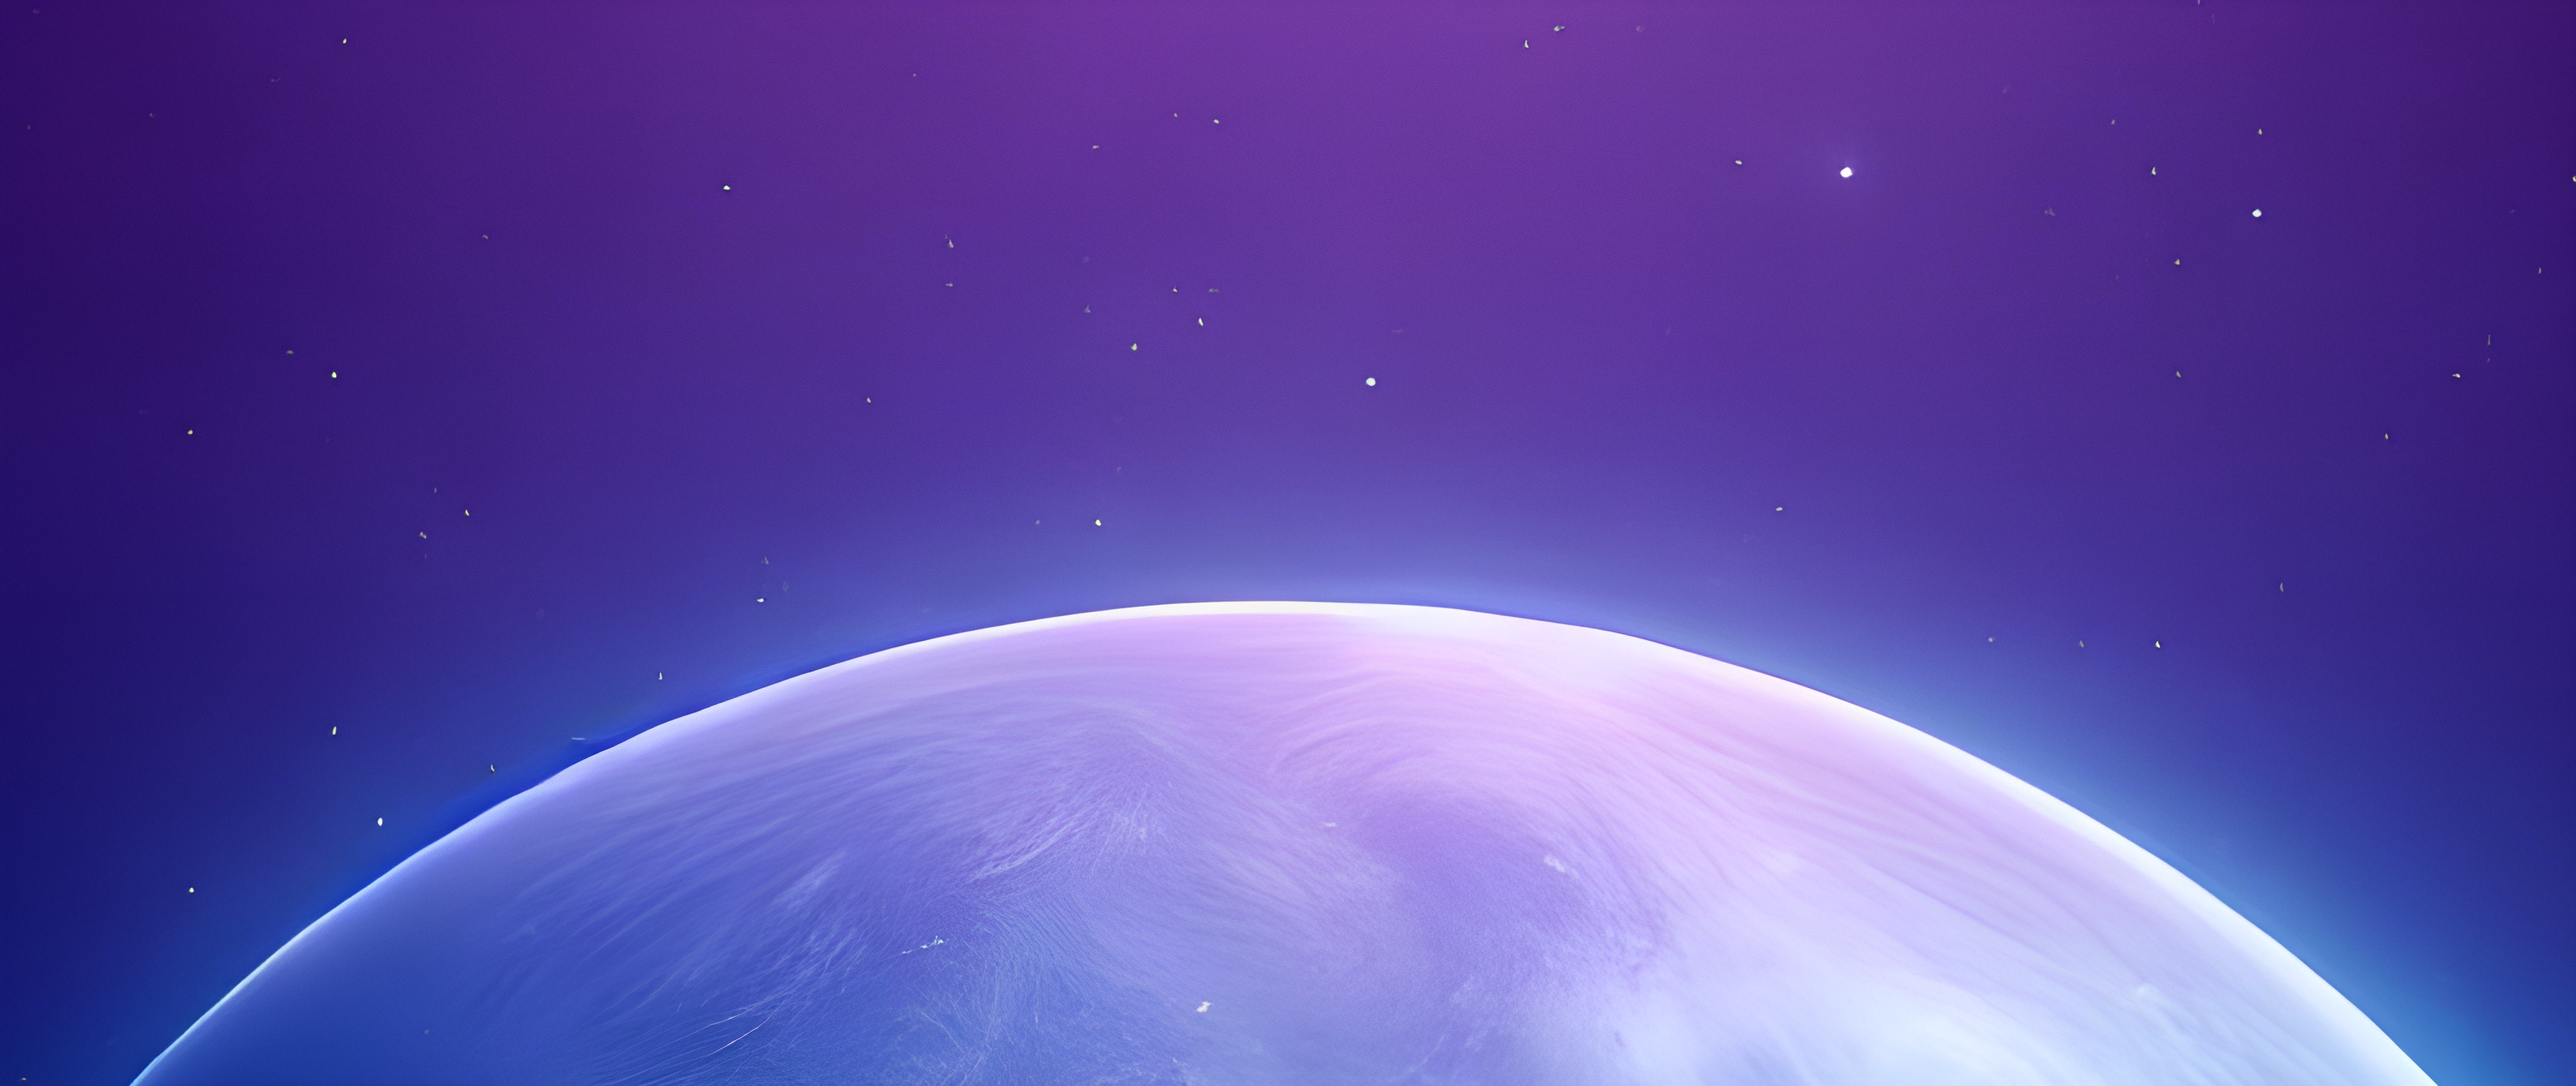
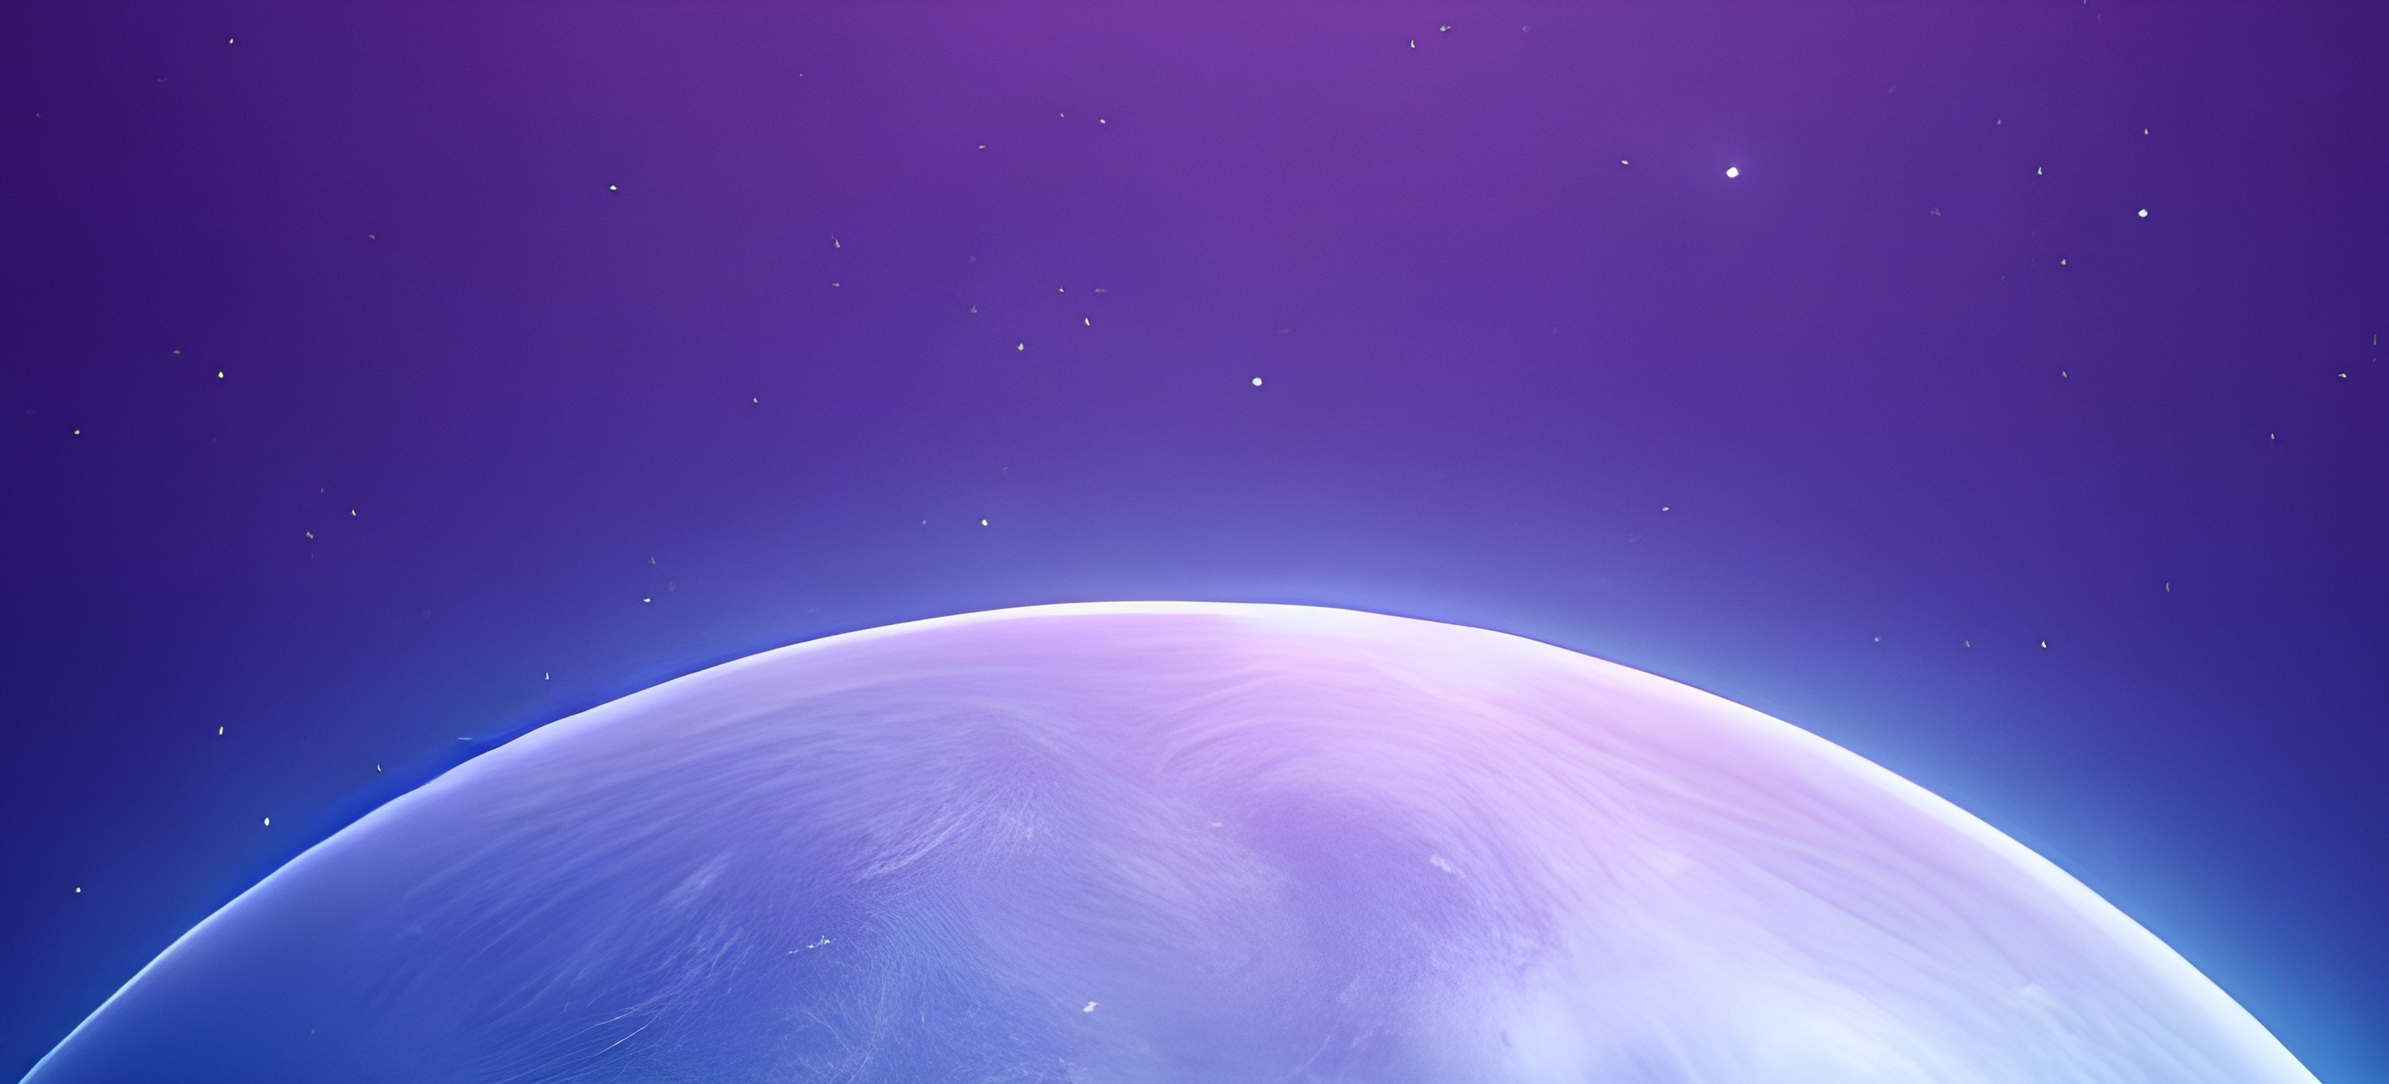
enzo pd

diff --git a/data/navbar.css b/data/navbar.css
@@ -53,13 +53,13 @@ header {
 }
 
 .navbar .lien-nav ul li a {
-    color: black;
+    color: pink;
     transition: 0.1s;
 }
 
 .navbar .lien-nav ul li:hover a {
-    color: rgb(5, 0, 137);
-    border-bottom:solid  rgb(5, 0, 137);
+    color: rgb(0, 0, 0);
+    border-bottom:solid  rgb(0, 0, 0);
 }
 
 .nav-logo {
@@ -78,10 +78,10 @@ header {
     display: flex;
     font-family: "Josefin sans";
     font-size: 25px;
-    color: rgb(23, 209, 85);
+    color: rgb(0, 0, 0);
     align-items: center;
     border-bottom: solid 3px;
-    border-color: rgb(255, 51, 0);
+    border-color: rgb(0, 0, 0);
 }
 
 
@@ -92,7 +92,7 @@ header {
 }
 
 .nav-menu ul li:hover * {
-    color: blue;
+    color: rgb(0, 0, 0);
 }
 
 .nav-menu ul li ul {

diff --git a/data/index.css b/data/index.css
@@ -13,11 +13,12 @@
     max-width: 100vw;
 }
 
+
+
  body {
 
     height: 100vh;
     width: 100%;
-    background-image: url(/image/neptuneciel.jpg);
     margin-left: auto;
     margin-right: auto
 
@@ -339,4 +340,13 @@ h1 {
     color: blue;
     border-bottom: solid 3px blue;
     border-top: solid 3px transparent ;
+}
+
+.test {
+    display: flex;
+    flex-direction: column;
+    width: 100%;
+    height: 100vh;
+    background-image: url(/image/neptunecielv2.jpg);
+    background-size: cover;
 }

diff --git a/data/index.php b/data/index.php
@@ -11,14 +11,18 @@
     <link rel="preconnect" href="https://fonts.gstatic.com" crossorigin>
     <link href="https://fonts.googleapis.com/css2?family=Poppins:wght@500&display=swap" rel="stylesheet">
 </head>
+
+<div class="test">
 <header>
 <?php
     include ('navbar.php');
 ?>
+</div>
 </header>
 
 <body>
     <main>
+    
         <div class=HP>
             <div class="BHN">
                 <img src="/image/HotelBHN.jpg" alt="Hôtel Neptune photo" id="HotelBHN">
